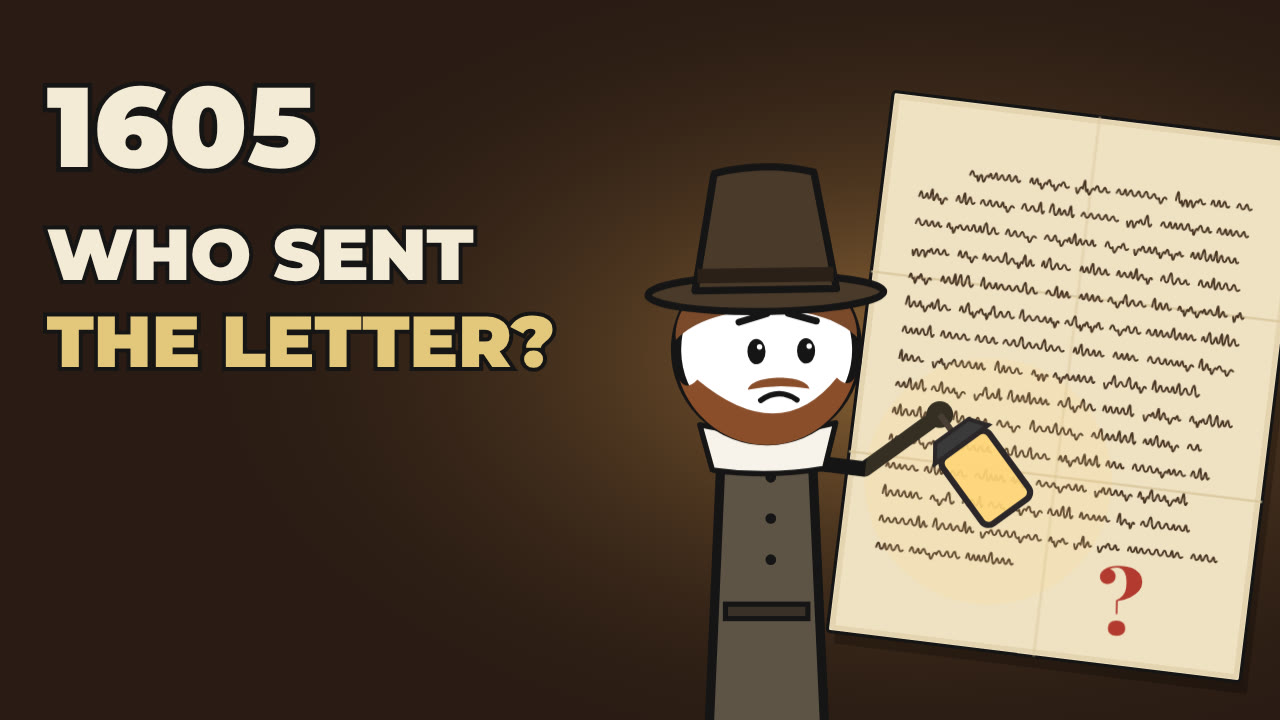
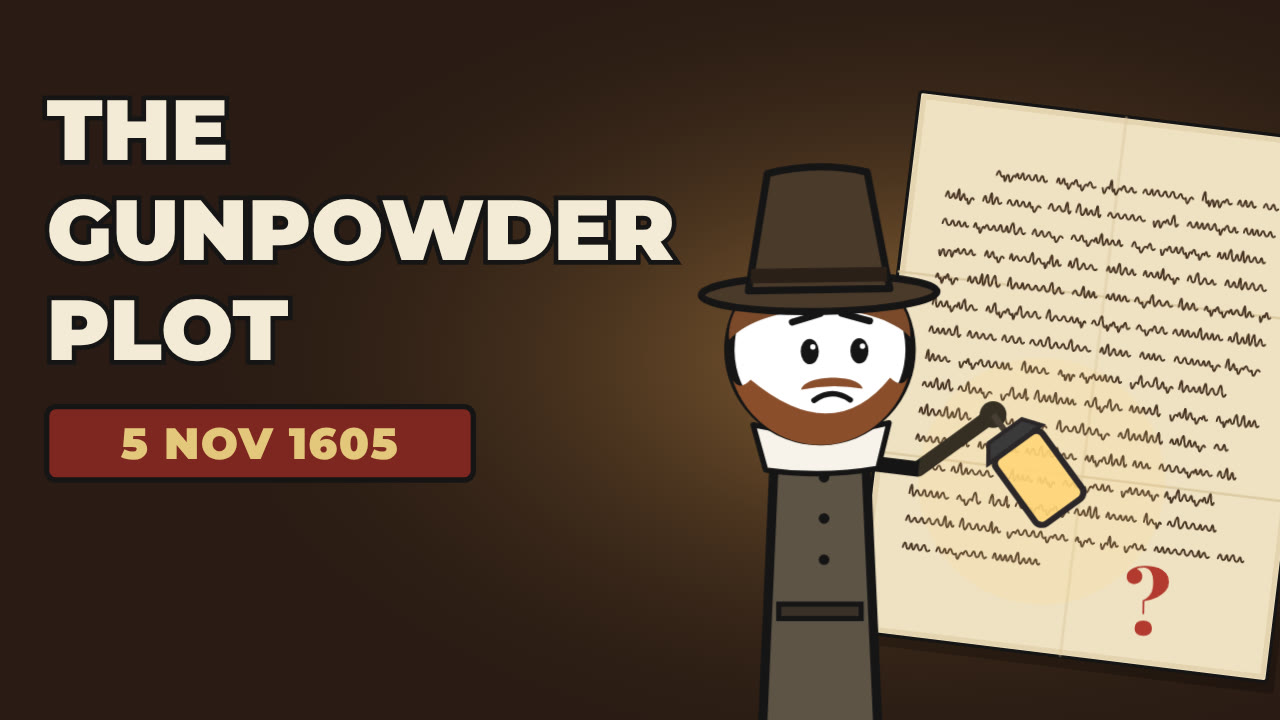
Episode 3: new main thumbnail with title and date; keep the question version as an alternative
Claude-Session: https://claude.ai/code/session_01HvVEsZ9EVjHeNkWxrb9HgQ

diff --git a/the-human-story/episode-03-gunpowder-plot/src/scenes/Thumbnail.tsx b/the-human-story/episode-03-gunpowder-plot/src/scenes/Thumbnail.tsx
@@ -1,4 +1,4 @@
-// YouTube thumbnail (1280 x 720): the unsigned letter, a lantern-lit Guy Fawkes, and a short question.
+// YouTube thumbnail (1280 x 720): the unsigned letter, a lantern-lit Guy Fawkes, the title and the date.
 import React from 'react';
 import {AbsoluteFill} from 'remotion';
 import {Person} from '../kit/Cast';
@@ -20,13 +20,17 @@ export const Thumbnail: React.FC = () => (
       </defs>
       <rect width={1920} height={1080} fill="#2A1C14" />
       <rect width={1920} height={1080} fill="url(#glow)" />
-      <g transform="translate(1600,580) rotate(7)">
+      <g transform="translate(1640,580) rotate(7)">
         <Letter x={0} y={0} s={1.2} question={1} />
       </g>
-      <Person id="fawkes" x={1150} y={1260} scale={3.0} f={12} seed={4} pose={addPose(standStiff(12, 4), {shR: 80, elR: 40})} holdR={<Lantern f={12} />} look={[0.7, 0]} expression="worried" />
-      <text x={70} y={250} fontFamily={FONT.sans} fontWeight={900} fontSize={170} fill="#F4EBD6" stroke={C.ink} strokeWidth={14} paintOrder="stroke">1605</text>
-      <text x={70} y={420} fontFamily={FONT.sans} fontWeight={900} fontSize={108} fill="#F4EBD6" stroke={C.ink} strokeWidth={12} paintOrder="stroke">WHO SENT</text>
-      <text x={70} y={550} fontFamily={FONT.sans} fontWeight={900} fontSize={108} fill={C.dustyYellow} stroke={C.ink} strokeWidth={12} paintOrder="stroke">THE LETTER?</text>
+      <Person id="fawkes" x={1230} y={1260} scale={3.0} f={12} seed={4} pose={addPose(standStiff(12, 4), {shR: 80, elR: 40})} holdR={<Lantern f={12} />} look={[0.7, 0]} expression="worried" />
+      <text x={70} y={240} fontFamily={FONT.sans} fontWeight={900} fontSize={128} fill="#F4EBD6" stroke={C.ink} strokeWidth={14} paintOrder="stroke">THE</text>
+      <text x={70} y={390} fontFamily={FONT.sans} fontWeight={900} fontSize={128} fill="#F4EBD6" stroke={C.ink} strokeWidth={14} paintOrder="stroke">GUNPOWDER</text>
+      <text x={70} y={540} fontFamily={FONT.sans} fontWeight={900} fontSize={128} fill="#F4EBD6" stroke={C.ink} strokeWidth={14} paintOrder="stroke">PLOT</text>
+      <g transform="translate(70,610)">
+        <rect x={0} y={0} width={640} height={110} rx={14} fill={C.darkRed} stroke={C.ink} strokeWidth={8} />
+        <text x={320} y={78} textAnchor="middle" fontFamily={FONT.sans} fontWeight={900} fontSize={66} fill={C.dustyYellow} letterSpacing={2}>5 NOV 1605</text>
+      </g>
     </svg>
   </AbsoluteFill>
 );

diff --git a/production/exports/ep03-gunpowder-plot/youtube/thumbnail-brief.md b/production/exports/ep03-gunpowder-plot/youtube/thumbnail-brief.md
@@ -1,3 +1,5 @@
 # Thumbnail brief
 
-Warm, lantern-lit stick-figure Guy Fawkes on a dark brown ground, the unsigned letter tilted on the right with a red question mark where the signature would be, and large cream type on the left: “1605 / WHO SENT / THE LETTER?” (the last line in gold). Thick black outlines, flat colours. Checked at 160 px wide. 1280 × 720 JPEG under 2 MB: `thumbnail.jpg` (rendered from the `Thumbnail` composition).
+**Main (`thumbnail.jpg`):** large cream type “THE / GUNPOWDER / PLOT” on the left, with “5 NOV 1605” in gold on a dark red label. On the right, a warm lantern-lit stick-figure Guy Fawkes on a dark brown ground, with the unsigned letter tilted behind him and a red question mark where the signature would be. Thick black outlines, flat colours. Checked at 160 px wide. 1280 × 720 JPEG under 2 MB, rendered from the `Thumbnail` composition.
+
+**Alternative (`thumbnail-alt-who-sent-the-letter.jpg`):** the same picture with “1605 / WHO SENT / THE LETTER?”. Useful for a later thumbnail A/B test.

diff --git a/production/exports/ep03-gunpowder-plot/youtube/publishing-checklist.md b/production/exports/ep03-gunpowder-plot/youtube/publishing-checklist.md
@@ -8,7 +8,7 @@ Craig uploads and publishes manually. Nothing is uploaded, scheduled or publishe
 - [ ] Title chosen from `title-options.md`
 - [ ] Description pasted from `publishing-pack.md` (chapters start at 00:00)
 - [ ] Tags from `keywords.md`
-- [ ] Thumbnail `thumbnail.jpg` (1280 × 720, < 2 MB)
+- [ ] Thumbnail `thumbnail.jpg` (1280 × 720, < 2 MB; alternative `thumbnail-alt-who-sent-the-letter.jpg`)
 - [ ] Category: Education; language: English (UK); audience setting chosen by Craig
 - [ ] Altered or synthetic content disclosure: the narration is a synthetic voice (Kokoro-82M)
 - [ ] End screen and cards set; playlist chosen
